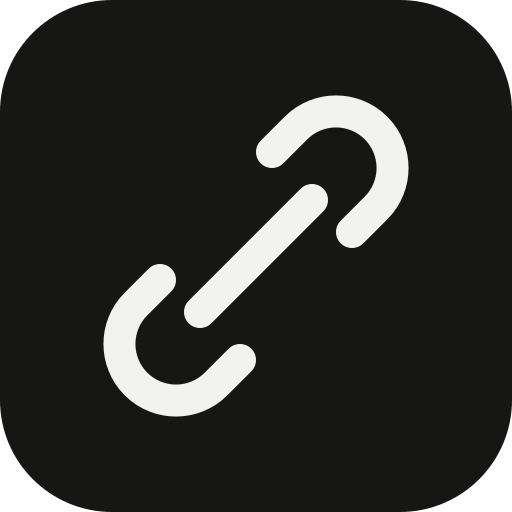
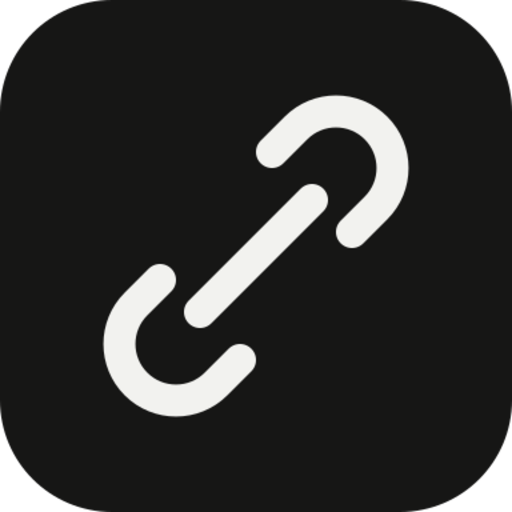
docs: register shipped asset provenance and third-party marks
Font licence texts and the brand icon sources were recorded in separate places, while the desktop icon and the evidence screenshots had no provenance at all. A reader could not check what the product ships from one document.

This adds a single register covering every shipped font, icon, image and mark, with its source, licence and attribution duty. The chain, token and wallet icons are named as third-party trademarks whose MIT-licensed files grant no right in the marks. The desktop icon had no source that could be named, so it was replaced with a render of the app's own icon.svg and the exact regeneration command is recorded. The MIT notices for Ionicons and web3icons are carried in full so the register discharges the notice duty for the copied files.

Assisted-by: opencode (hy4-flash-free)

diff --git a/docs/THIRD-PARTY-NOTICES.md b/docs/THIRD-PARTY-NOTICES.md
@@ -1,0 +1,123 @@
+# Third-party notices — shipped assets
+
+This register names every font, icon, image and mark that ezCHAIN ships, with its source, its licence and the notice that has to travel with it. It is the one place to check what is in the product: the font licence texts, the icon provenance, the screenshots and the project's own marks are all recorded here.
+
+A file without a recorded source does not ship. If artwork arrives with no origin that can be named, it is either given one here or replaced with artwork whose source is in the repository. The project's own name and logo are covered separately in [`TRADEMARKS.md`](../TRADEMARKS.md).
+
+## Fonts
+
+The web app bundles four font files and the two licence texts that must accompany them. No font is fetched at runtime.
+
+| Asset | Source | Licence | Attribution duty |
+|---|---|---|---|
+| `apps/web/app/fonts/inter-latin-var.woff2` | Inter Latin variable, upstream `github.com/rsms/inter`; copyright 2016 The Inter Project Authors | SIL Open Font License 1.1, text in `apps/web/app/fonts/OFL-Inter.txt` | Ship `OFL-Inter.txt` with the font. The bundled notice declares no reserved font name. |
+| `apps/web/app/fonts/ibm-plex-mono-400.woff2` | IBM Plex Mono Regular, upstream `github.com/IBM/plex`; copyright 2017 IBM Corp. | SIL Open Font License 1.1, text in `apps/web/app/fonts/OFL-IBM-Plex.txt` | Ship `OFL-IBM-Plex.txt` with the font. |
+| `apps/web/app/fonts/ibm-plex-mono-500.woff2` | IBM Plex Mono Medium, upstream `github.com/IBM/plex`; copyright 2017 IBM Corp. | SIL Open Font License 1.1, text in `apps/web/app/fonts/OFL-IBM-Plex.txt` | Ship `OFL-IBM-Plex.txt` with the font. |
+| `apps/web/app/fonts/ibm-plex-mono-600.woff2` | IBM Plex Mono SemiBold, upstream `github.com/IBM/plex`; copyright 2017 IBM Corp. | SIL Open Font License 1.1, text in `apps/web/app/fonts/OFL-IBM-Plex.txt` | Ship `OFL-IBM-Plex.txt` with the font. "Plex" is a reserved font name, so a modified build must not use it. |
+| `apps/web/app/fonts/OFL-Inter.txt` | Copy of the upstream SIL OFL 1.1 text for Inter | SIL Open Font License 1.1 | This file is the attribution; keep it beside the font. |
+| `apps/web/app/fonts/OFL-IBM-Plex.txt` | Copy of the upstream SIL OFL 1.1 text for IBM Plex | SIL Open Font License 1.1 | This file is the attribution; keep it beside the fonts. |
+
+## Icons and marks
+
+The icon files used by the product's interface and by the design system are listed together. The paths under `design/brand/` are the private design-system sources; the product ships the same files, so their provenance belongs in this register. The third-party files are copied unchanged; their upstream licences and the notices those licences require are recorded below.
+
+| Asset | Source | Licence | Attribution duty |
+|---|---|---|---|
+| `apps/web/app/icon.svg` | The ezCHAIN app mark, drawn by the project as the vector source for the web icon and the desktop icon | AGPL-3.0-or-later as part of the app; the mark is a project trademark | None beyond `NOTICE` and `TRADEMARKS.md`. |
+| `apps/desktop/resources/icon.png` | Rendered from `apps/web/app/icon.svg`, the project's own app mark, at 512 × 512. The original file had no recorded origin, so it was replaced with a render whose source is in the repository; regeneration is described below. | AGPL-3.0-or-later as project artwork; the mark is a project trademark | None beyond `NOTICE` and `TRADEMARKS.md`. |
+| `design/brand/icons/ion.svg` | Ionicons 7.4.0, outline and filled sets, paths unchanged; upstream `github.com/ionic-team/ionicons` | MIT, copyright 2015–present Ionic | Keep the MIT copyright and permission notice with copies of the file. |
+| `design/brand/icons/chains/*.svg` — 12 files | web3icons core 4.0.59, branded set, files unchanged; upstream `github.com/0xa3k5/web3icons` | MIT, copyright 2024 0xa3k5 | Keep the MIT copyright and permission notice with copies. The chain marks are third-party trademarks. |
+| `design/brand/icons/wallets/*.svg` — 8 files | web3icons core 4.0.59, branded set, files unchanged; upstream `github.com/0xa3k5/web3icons` | MIT, copyright 2024 0xa3k5 | Keep the MIT copyright and permission notice with copies. The wallet marks are third-party trademarks. |
+| `design/brand/icons/tokens/*.svg` — 10 files | web3icons core 4.0.59, branded set, files unchanged; upstream `github.com/0xa3k5/web3icons` | MIT, copyright 2024 0xa3k5 | Keep the MIT copyright and permission notice with copies. The token marks are third-party trademarks. |
+| `design/brand/icons.svg` | The project's own 1.75-stroke line-icon set, used with `<use href="icons.svg#id">` | Apache-2.0 as part of the design system, under `NOTICE` | None beyond `NOTICE`. |
+
+### Third-party marks
+
+The chain, token and wallet icons are **third-party trademarks**. They belong to the projects they identify, not to ezCHAIN. The MIT licence covers the SVG files; it grants no right in the marks themselves. The marks appear so that a person can tell which chain, token or wallet a row refers to, and their presence does not imply endorsement, affiliation or approval by the mark owner. Neither the app's AGPL licence nor a commercial licence grants permission to use those marks; anyone redistributing the product must make its own arrangements with each owner. The ezCHAIN name and logo are the project's own marks and follow [`TRADEMARKS.md`](../TRADEMARKS.md).
+
+### Regenerating the desktop icon
+
+The desktop icon is a render of the vector icon the project already ships, so its origin can be checked rather than asserted. From the repository root:
+
+```bash
+magick -background none -density 1152 apps/web/app/icon.svg -resize 512x512 -depth 8 -strip apps/desktop/resources/icon.png
+```
+
+The result is a 512 × 512 RGBA PNG with transparent corners, matching the icon that the desktop app loads for its window and tray.
+
+## Screenshots
+
+Every image under `docs/evidence/` is a capture of an ezCHAIN build, not third-party artwork. The evidence notes record how and when each was taken.
+
+| Asset | Source | Licence | Attribution duty |
+|---|---|---|---|
+| `docs/evidence/desktop/linux-dashboard.png` | Screenshot of the native desktop app, recorded in `docs/evidence/desktop/linux-app.md` | Project output, AGPL-3.0-or-later | None. |
+| `docs/evidence/m1-ui/dashboard-mobile-390.png` | Chrome capture of the web app at 390 × 844, recorded in `docs/evidence/m1-ui/README.md` | Project output, AGPL-3.0-or-later | None. |
+| `docs/evidence/m1-ui/dashboard-wireframe-vs-implementation.png` | Chrome comparison of the project's wireframe and the web app at 1440 px, recorded in `docs/evidence/m1-ui/README.md` | Project output, AGPL-3.0-or-later | None. |
+| `docs/evidence/m1-ui/markets-mobile-390.png` | Chrome capture of the web app at 390 × 844, recorded in `docs/evidence/m1-ui/README.md` | Project output, AGPL-3.0-or-later | None. |
+| `docs/evidence/m1-ui/markets-wireframe-vs-implementation.png` | Chrome comparison of the project's wireframe and the web app at 1440 px, recorded in `docs/evidence/m1-ui/README.md` | Project output, AGPL-3.0-or-later | None. |
+| `docs/evidence/m1-ui/positions-mobile-390.png` | Chrome capture of the web app at 390 × 844, recorded in `docs/evidence/m1-ui/README.md` | Project output, AGPL-3.0-or-later | None. |
+| `docs/evidence/m1-ui/positions-wireframe-vs-implementation.png` | Chrome comparison of the project's wireframe and the web app at 1440 px, recorded in `docs/evidence/m1-ui/README.md` | Project output, AGPL-3.0-or-later | None. |
+| `docs/evidence/m1-ui/token-mobile-390.png` | Chrome capture of the web app at 390 × 844, recorded in `docs/evidence/m1-ui/README.md` | Project output, AGPL-3.0-or-later | None. |
+| `docs/evidence/m1-ui/token-scam-1440.png` | Chrome capture of the fail-closed token page at 1440 px, recorded in `docs/evidence/m1-ui/README.md` | Project output, AGPL-3.0-or-later | None. |
+| `docs/evidence/m1-ui/token-wireframe-vs-implementation.png` | Chrome comparison of the project's wireframe and the web app at 1440 px, recorded in `docs/evidence/m1-ui/README.md` | Project output, AGPL-3.0-or-later | None. |
+
+## MIT notices carried for the icon files
+
+The MIT licence requires the copyright notice and the permission notice to be included in copies of the files. Both notices are reproduced here so that the register discharges that duty for the icon sets.
+
+### Ionicons
+
+```text
+The MIT License (MIT)
+
+Copyright (c) 2015-present Ionic (http://ionic.io/)
+
+Permission is hereby granted, free of charge, to any person obtaining a copy
+of this software and associated documentation files (the "Software"), to deal
+in the Software without restriction, including without limitation the rights
+to use, copy, modify, merge, publish, distribute, sublicense, and/or sell
+copies of the Software, and to permit persons to whom the Software is
+furnished to do so, subject to the following conditions:
+
+The above copyright notice and this permission notice shall be included in
+all copies or substantial portions of the Software.
+
+THE SOFTWARE IS PROVIDED "AS IS", WITHOUT WARRANTY OF ANY KIND, EXPRESS OR
+IMPLIED, INCLUDING BUT NOT LIMITED TO THE WARRANTIES OF MERCHANTABILITY,
+FITNESS FOR A PARTICULAR PURPOSE AND NONINFRINGEMENT. IN NO EVENT SHALL THE
+AUTHORS OR COPYRIGHT HOLDERS BE LIABLE FOR ANY CLAIM, DAMAGES OR OTHER
+LIABILITY, WHETHER IN AN ACTION OF CONTRACT, TORT OR OTHERWISE, ARISING FROM,
+OUT OF OR IN CONNECTION WITH THE SOFTWARE OR THE USE OR OTHER DEALINGS IN
+THE SOFTWARE.
+```
+
+### web3icons
+
+```text
+MIT License
+
+Copyright (c) 2024 0xa3k5
+
+Permission is hereby granted, free of charge, to any person obtaining a copy
+of this software and associated documentation files (the "Software"), to deal
+in the Software without restriction, including without limitation the rights
+to use, copy, modify, merge, publish, distribute, sublicense, and/or sell
+copies of the Software, and to permit persons to whom the Software is
+furnished to do so, subject to the following conditions:
+
+The above copyright notice and this permission notice shall be included in all
+copies or substantial portions of the Software.
+
+THE SOFTWARE IS PROVIDED "AS IS", WITHOUT WARRANTY OF ANY KIND, EXPRESS OR
+IMPLIED, INCLUDING BUT NOT LIMITED TO THE WARRANTIES OF MERCHANTABILITY,
+FITNESS FOR A PARTICULAR PURPOSE AND NONINFRINGEMENT. IN NO EVENT SHALL THE
+AUTHORS OR COPYRIGHT HOLDERS BE LIABLE FOR ANY CLAIM, DAMAGES OR OTHER
+LIABILITY, WHETHER IN AN ACTION OF CONTRACT, TORT OR OTHERWISE, ARISING FROM,
+OUT OF OR IN CONNECTION WITH THE SOFTWARE OR THE USE OR OTHER DEALINGS IN THE
+SOFTWARE.
+```
+
+## Keeping the register complete
+
+A change that adds a font, icon, image or mark adds a row here in the same change. The row names the file, where it came from, the licence that covers it and the notice that has to travel with it. An asset whose origin cannot be named is replaced rather than shipped with a guessed provenance.
